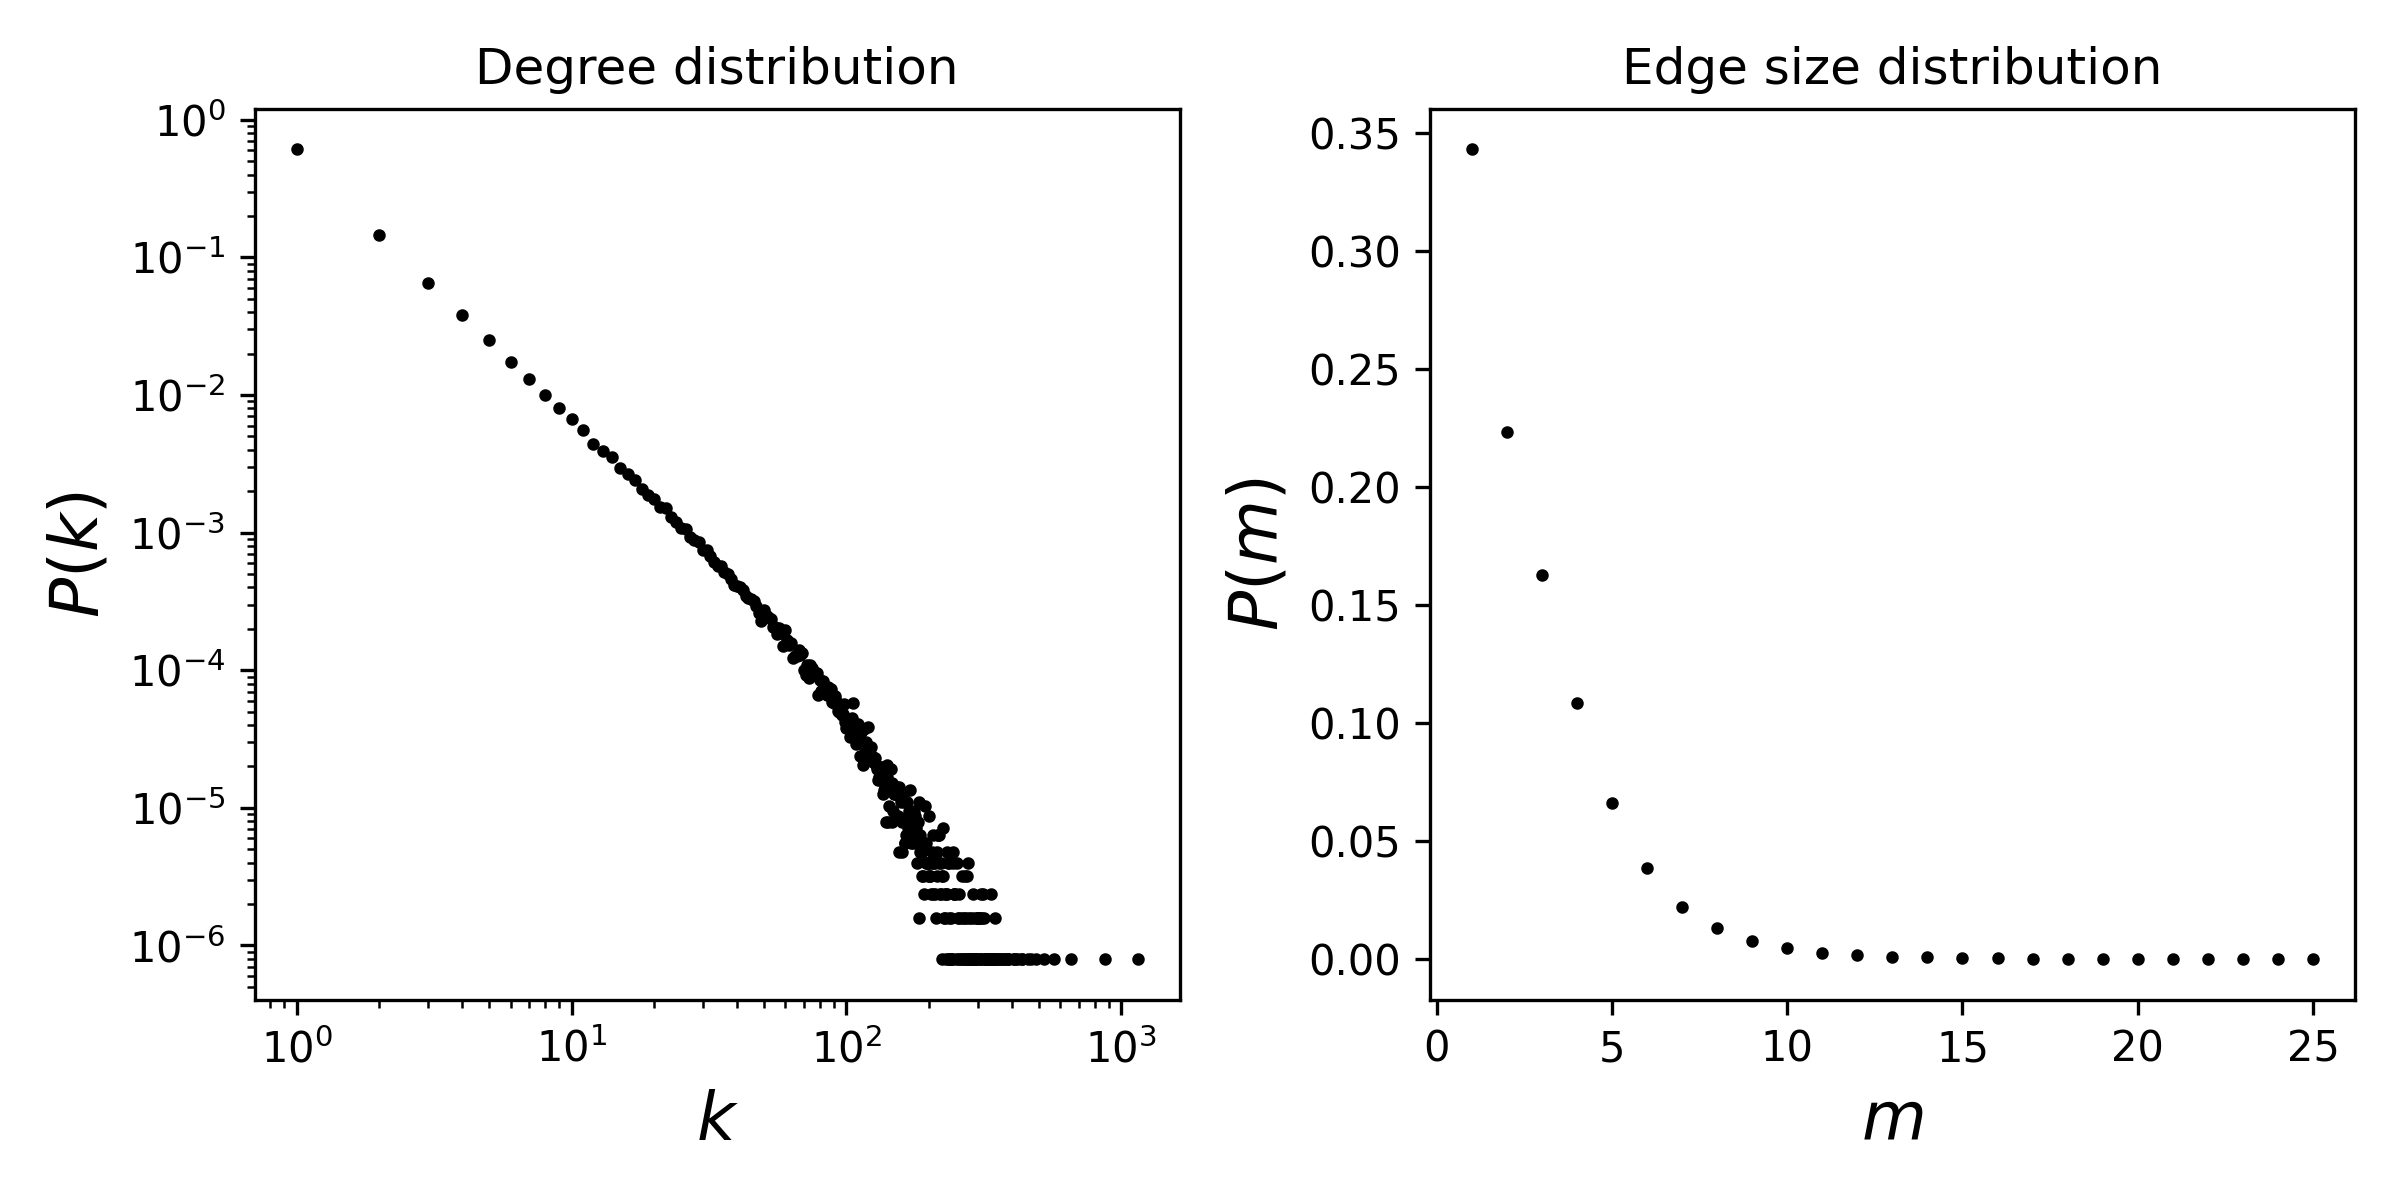
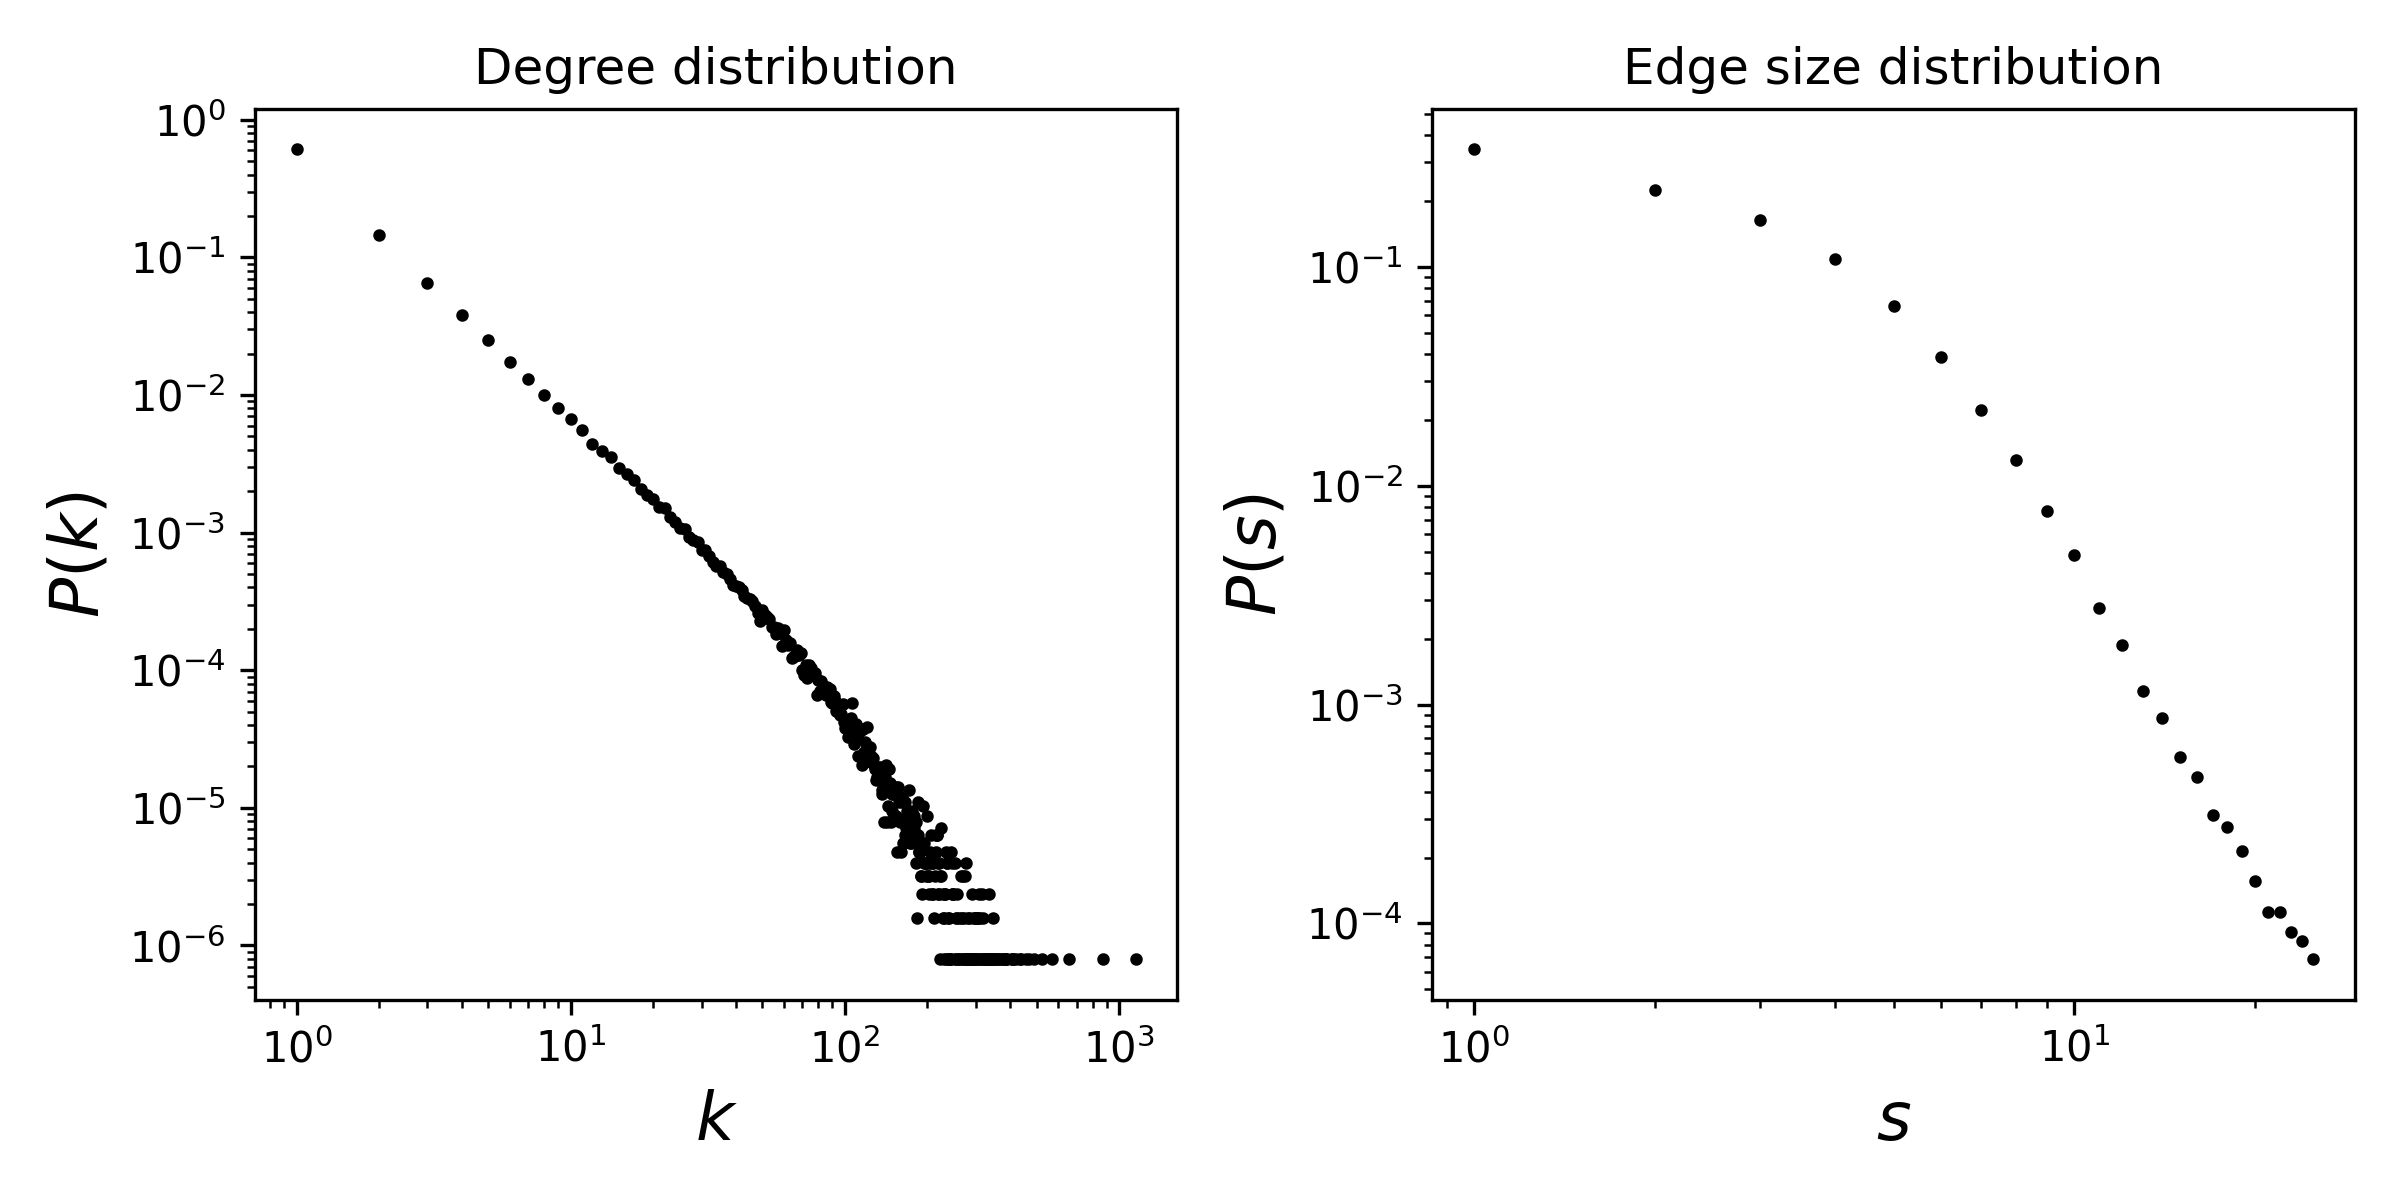
fix: correct year in coauth geol

diff --git a/code/import_coauth-MAG-Geology.py b/code/import_coauth-MAG-Geology.py
@@ -31,15 +31,15 @@ H["name"] = dataset_name
 delimiter = " "
 
 node_labels = utilities.readScHoLPNodeLabels(node_labels_file, delimiter)
-edge_times = utilities.read_SCHOLP_dates(edge_times_file, time_unit="milliseconds")
+times = np.loadtxt(edge_times_file) #utilities.read_SCHOLP_dates(edge_times_file, time_unit="milliseconds")
 
 H.add_nodes_from(list(node_labels.keys()))
 
 for label, name in node_labels.items():
     H.nodes[label].update({"name": name})
 
-for label, date in edge_times.items():
-    H.edges[label].update({"timestamp": date})
+for label, date in enumerate(times):
+    H.edges[label].update({"timestamp": int(date)})
 
 if output_stats:
     print((H.num_nodes, H.num_edges))
@@ -56,13 +56,13 @@ if output_stats:
     plt.ylabel(r"$P(k)$", fontsize=16)
     plt.subplot(122)
     sizes, counts = np.unique(H.edges.size.asnumpy(), return_counts=True)
-    plt.plot(sizes, counts / H.num_edges, "ko", markersize=2)
+    plt.loglog(sizes, counts / H.num_edges, "ko", markersize=2)
     plt.title("Edge size distribution")
-    plt.xlabel(r"$m$", fontsize=16)
-    plt.ylabel(r"$P(m)$", fontsize=16)
+    plt.xlabel(r"$s$", fontsize=16)
+    plt.ylabel(r"$P(s)$", fontsize=16)
     plt.tight_layout()
     plt.savefig(f"{data_folder}/{dataset_folder}/stats.png", dpi=300)
-    plt.show()
+    #plt.show()
 
 
 if output_file:
